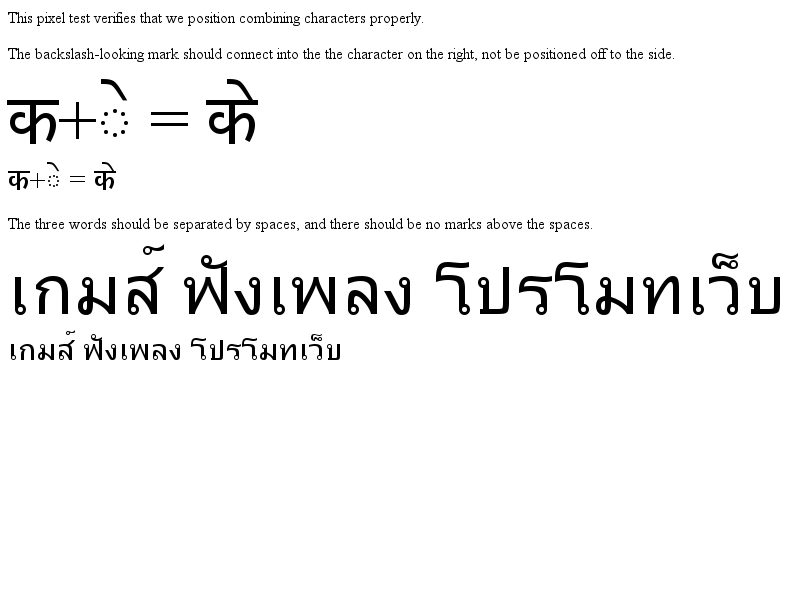
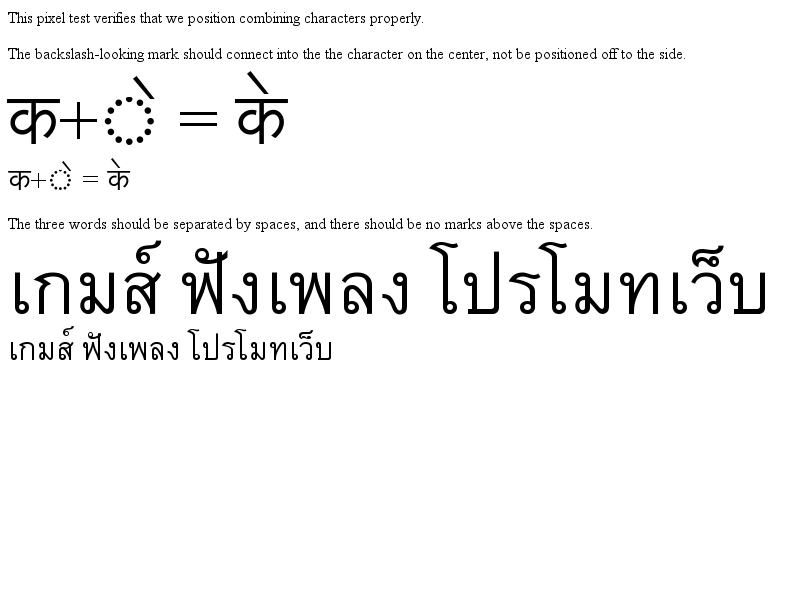
2011-05-10  Kenichi Ishibashi  <bashi@chromium.org>
Reviewed by Tony Chang.

        REGRESSION(r85013): platform/chromium-linux/fast/text/international/complex-joining-using-gpos.html is failing
        https://bugs.webkit.org/show_bug.cgi?id=60079

        Update the expected results.

        * platform/chromium-linux-x86_64/platform/chromium-linux/fast/text/international/complex-joining-using-gpos-expected.png: Added.
        * platform/chromium-linux-x86_64/platform/chromium-linux/fast/text/international/complex-joining-using-gpos-expected.txt:
        * platform/chromium-linux/fast/text/international/complex-joining-using-gpos-expected.png:
        * platform/chromium-linux/fast/text/international/complex-joining-using-gpos-expected.txt:
        * platform/chromium-linux/fast/text/international/complex-joining-using-gpos.html:
        * platform/chromium-linux/platform/chromium-linux/fast/text/international/complex-joining-using-gpos-expected.png: Removed.
        * platform/chromium/test_expectations.txt:
2011-05-10  Kenichi Ishibashi  <bashi@chromium.org>

        Reviewed by Tony Chang.

        REGRESSION(r85013): platform/chromium-linux/fast/text/international/complex-joining-using-gpos.html is failing
        https://bugs.webkit.org/show_bug.cgi?id=60079

        Set resultingNumPoints = 0 so that harfbuzz uses the design coordinate
        value pair.

        * platform/graphics/chromium/HarfbuzzSkia.cpp:
        (WebCore::getOutlinePoint): Just return HB_Err_Ok with resultingNumPoints = 0.
[…]

diff --git a/platform/chromium-linux/fast/text/international/complex-joining-using-gpos.html b/platform/chromium-linux/fast/text/international/complex-joining-using-gpos.html
@@ -7,7 +7,7 @@
 
 <p>This pixel test verifies that we position combining characters properly.</p>
 
-<p>The backslash-looking mark should connect into the the character on the right, not be positioned off to the side.</p>
+<p>The backslash-looking mark should connect into the the character on the center, not be positioned off to the side.</p>
 <div class=big>क+े = के</div>
 <div class=med>क+े = के</div>
 
